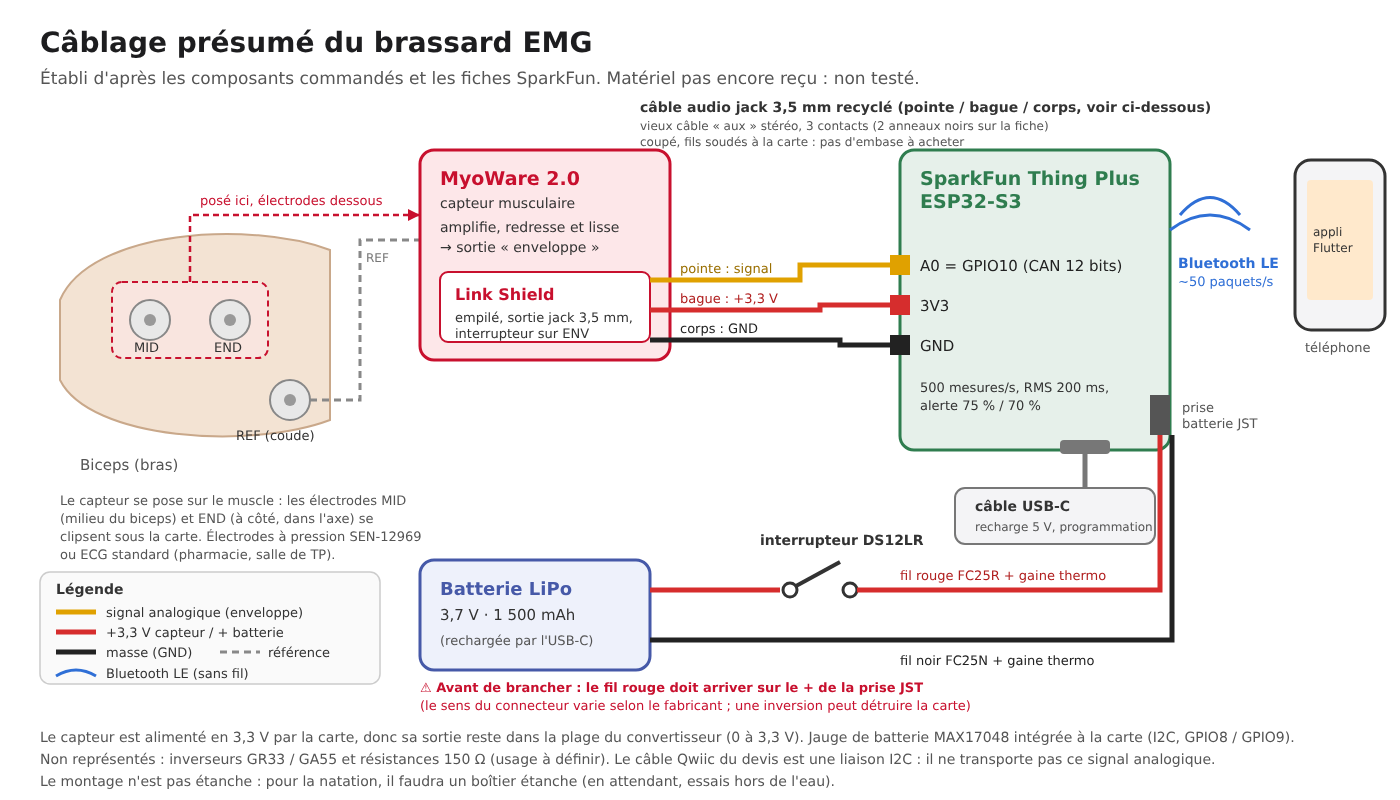
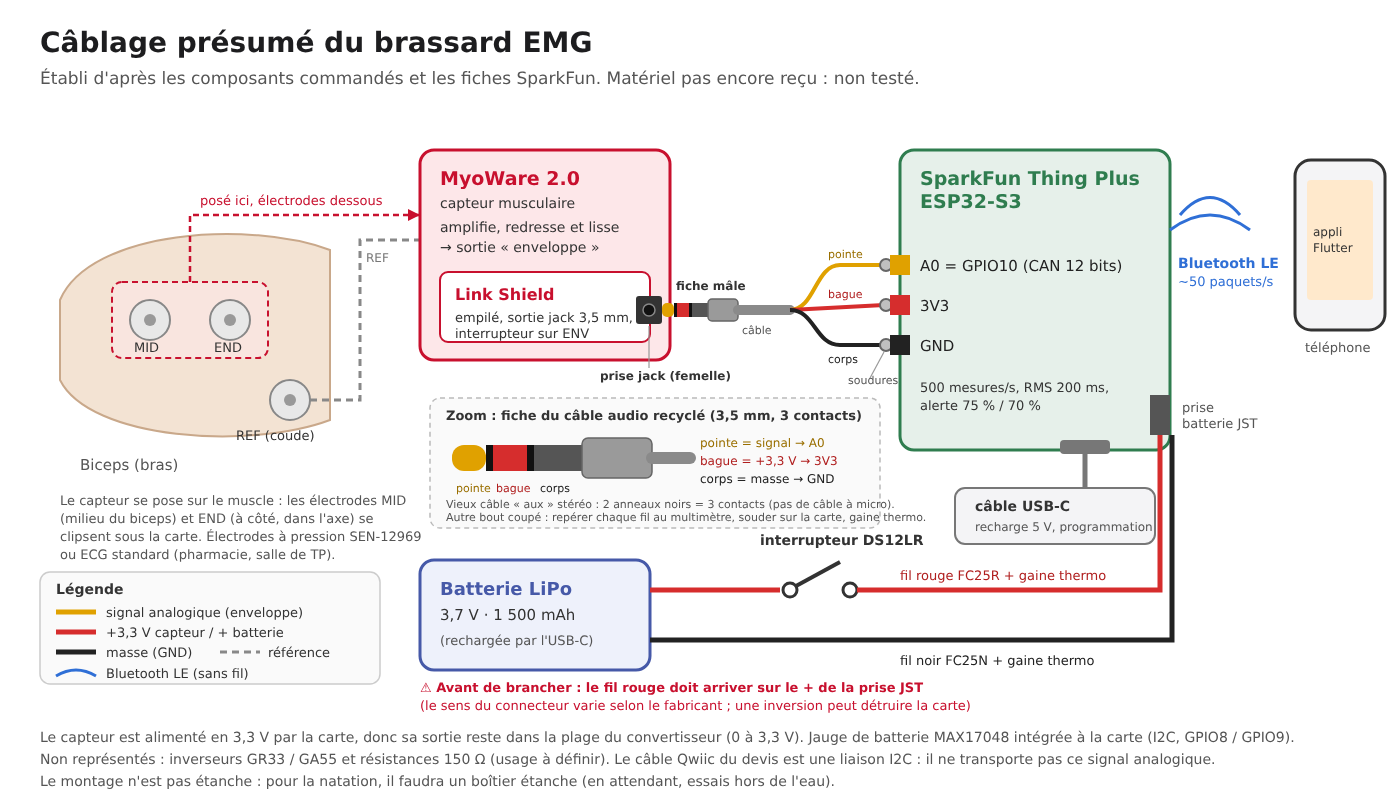
Schéma : câble jack dessiné (prise du Link Shield, fiche mâle, câble, 3 soudures, zoom sur la fiche) ; Gantt affiché dans le README ; hébergement de l'API sur un PC avec XAMPP et ngrok

Changed region(s): [[0.3071, 0.3125, 0.645, 0.6562], [0.4607, 0.125, 0.86, 0.1875], [0.6143, 0.4688, 0.645, 0.5]]

diff --git a/README.md b/README.md
@@ -51,6 +51,18 @@ Le matériel, demandé en juin 2026, a été commandé par l'école en novembre 
 
 Tout le détail (ce qui est fait, ce qui reste, cases à cocher, répartition) : **[`FEUILLE-DE-ROUTE.md`](FEUILLE-DE-ROUTE.md)**.
 
+### Planning (diagramme de Gantt)
+
+Fichier modifiable et détails : [`gestion-projet/`](gestion-projet/README.md). Dates à confirmer : livraison du matériel et soutenance.
+
+**2e année** (septembre 2026 → janvier 2027) :
+
+![Gantt de la 2e année : travail fait sans le matériel, attente de la commande, étapes à la réception, fin du projet](gestion-projet/gantt-annee2.png)
+
+**1re année** : le plan d'origine et ce que chaque tâche est devenue :
+
+![Gantt de la 1re année : plan d'origine (tâches A à I) et statut de chaque tâche](gestion-projet/gantt-annee1.png)
+
 ## Rencontre avec une patiente atteinte de sclérose en plaques
 
 > [!NOTE]
@@ -185,7 +197,19 @@ flutter build apk --release --dart-define=API_BASE_URL=http://192.168.1.20/athle
 ```
 L'APK se trouve ensuite dans `build/app/outputs/flutter-apk/app-release.apk`. Remplacer `192.168.1.20` par l'adresse IP du PC (`ipconfig` sous Windows). Le `http://` est autorisé pour le prototype ; à passer en HTTPS pour un vrai déploiement.
 
-### 5. Tests
+### 5. Héberger l'API sur son PC (XAMPP + ngrok)
+
+Pas besoin de serveur : l'API tourne sur un PC avec XAMPP, et **ngrok** la rend joignable depuis Internet en HTTPS (le téléphone n'a pas besoin d'être sur le même Wi-Fi). L'application envoie déjà l'en-tête qui évite la page d'avertissement de ngrok.
+1. XAMPP : démarrer Apache et MySQL, dépôt dans `htdocs/athletix-data`, base et migrations importées (étapes 1 et 2).
+2. Installer ngrok (site officiel, compte gratuit), puis une seule fois : `ngrok config add-authtoken <jeton du compte>`.
+3. Lancer le tunnel vers Apache. Le compte gratuit donne **un domaine fixe** (tableau de bord ngrok → *Domains*) : avec lui, l'adresse ne change pas à chaque lancement.
+```bash
+ngrok http --url=mon-domaine.ngrok-free.app 80
+```
+4. L'adresse de l'API devient `https://mon-domaine.ngrok-free.app/athletix-data/backend`. La mettre dans la variable du dépôt `API_BASE_URL` (*Settings → Secrets and variables → Actions → Variables*), puis relancer la compilation (*Actions → APK Android → Run workflow*) et réinstaller l'APK.
+5. Le PC doit rester allumé, avec XAMPP et ngrok lancés, pendant que l'application est utilisée.
+
+### 6. Tests
 ```bash
 flutter test                                   # application (68 tests) : Bluetooth, séance, natation, GPS, évolution, exports, envoi différé, démo
 ATHLETIX_TEST=1 bash tests/api/test_api.sh     # API sur une base de TEST (le script la vide) : 77 vérifications
@@ -193,7 +217,7 @@ g++ -std=c++17 -I hardware/firmware-brassard tests/firmware/test_calcul_emg.cpp 
 ```
 Les trois sont relancés par GitHub à chaque envoi ([`.github/workflows/tests.yml`](.github/workflows/tests.yml), badge en haut de page).
 
-### 6. Version web pour GitHub Pages
+### 7. Version web pour GitHub Pages
 ```bash
 bash tools/build_web.sh
 ```
@@ -226,7 +250,7 @@ A connected armband that measures muscle activity (electromyography, EMG) and a 
 
 **Final armband:** MyoWare 2.0 muscle sensor + Link Shield, SparkFun Thing Plus ESP32-S3 (12-bit ADC at 500 Hz, 200 ms RMS, Bluetooth Low Energy), 3.7 V 1500 mAh LiPo battery. The measurement chain was first modelled in Simulink as an **experiment**: see [`hardware/simulation-emg/`](hardware/simulation-emg/README.md). The final model is included: [`AthletixData_EMG_Simulation.slx`](hardware/simulation-emg/AthletixData_EMG_Simulation.slx) (MATLAB/Simulink R2026b or later).
 
-**Project status.** The hardware, requested in June 2026, was ordered by the school in November (expected mid-December at the earliest). Everything that does not depend on the parts is done: the **app is nearly finished** and tested in the browser, the API passes 77 checks on a real database, the final firmware is written and its calculations pass 41 checks on a computer, and GitHub reruns all tests on every push. The leaderboard rule was validated on 12 November 2026. Next: try the app on an Android phone (the APK is built by GitHub), then follow the test protocol when the hardware arrives. Full roadmap (in French): [`FEUILLE-DE-ROUTE.md`](FEUILLE-DE-ROUTE.md).
+**Project status.** The hardware, requested in June 2026, was ordered by the school in November (expected mid-December at the earliest). Everything that does not depend on the parts is done: the **app is nearly finished** and tested in the browser, the API passes 77 checks on a real database, the final firmware is written and its calculations pass 41 checks on a computer, and GitHub reruns all tests on every push. The leaderboard rule was validated on 12 November 2026. Next: try the app on an Android phone (the APK is built by GitHub), then follow the test protocol when the hardware arrives. Full roadmap (in French): [`FEUILLE-DE-ROUTE.md`](FEUILLE-DE-ROUTE.md). Planning (Gantt charts): [`gestion-projet/`](gestion-projet/README.md).
 
 **Meeting with a person living with multiple sclerosis.** During the project, the team talked with a person living with multiple sclerosis, at the suggestion of a retired doctor specialised in the disease, who pushed us towards this need. Her suggestions were not written down at the time; the ideas below were **written afterwards** from what is known about the disease. They are neither her words nor medical advice:
 - **Fatigue** (the most common symptom): track muscle fatigue (median frequency of the raw signal, MyoWare RAW output read at 1 kHz or more) and suggest a break before exhaustion.
@@ -292,9 +316,10 @@ The Bluetooth format, data models and network integration are described (in Fren
 1. **Database**: start MySQL (XAMPP) and import `database.sql`, then the migrations `001` to `004` in `migrations/`, in order. This creates a fictional demo account: `demo@exemple.com` / `demo1234`.
 2. **PHP backend**: place the repository in `htdocs/athletix-data`. Copy `backend/config.example.php` to `backend/config.local.php` (git-ignored), then fill in the MySQL credentials, the SMTP settings (Gmail address and **app password**) and `allowed_origin`.
 3. **Flutter app**: run `flutter pub get`, then `flutter run -d chrome --web-port 5000`. The API URL lives in `lib/config.dart`, or can be passed with `--dart-define=API_BASE_URL=...`.
-4. **Android app** (real armband): open the project in Android Studio and build with `--dart-define=API_BASE_URL=http://<PC IP>/athletix-data/backend`.
-5. **Tests**: `flutter test` (68 tests), `ATHLETIX_TEST=1 bash tests/api/test_api.sh` (77 checks, on a test database only), and the firmware calculation tests in `tests/firmware/` (41 checks). GitHub reruns all three on every push.
-6. **GitHub Pages**: `bash tools/build_web.sh` (builds, copies to `docs/`, adds a version number so browsers never keep an old copy), then enable Pages on `main` / `docs`.
+4. **Hosting the API on a PC**: XAMPP plus an **ngrok** tunnel (`ngrok http --url=<free static domain> 80`), then set the repository variable `API_BASE_URL` to `https://<domain>/athletix-data/backend` and rerun the “APK Android” workflow.
+5. **Android app** (real armband): download the ready-made [athletix-data.apk](https://github.com/Valentin-Auger-Laboratoire/athletix-data/releases/tag/apk) built by GitHub, or open the project in Android Studio and build with `--dart-define=API_BASE_URL=...`.
+6. **Tests**: `flutter test` (68 tests), `ATHLETIX_TEST=1 bash tests/api/test_api.sh` (77 checks, on a test database only), and the firmware calculation tests in `tests/firmware/` (41 checks). GitHub reruns all three on every push.
+7. **GitHub Pages**: `bash tools/build_web.sh` (builds, copies to `docs/`, adds a version number so browsers never keep an old copy), then enable Pages on `main` / `docs`.
 
 ## Personal data (GDPR)
 

diff --git a/FEUILLE-DE-ROUTE.md b/FEUILLE-DE-ROUTE.md
@@ -54,6 +54,7 @@
 ## 1. Reste à faire sans le matériel
 
 - [x] **Règle de score du classement validée** (12 novembre 2026) : 10 points par séance mesurée + minutes × intensité moyenne ÷ 50, sur 30 jours, séances simulées exclues ([`MCD_MLD.md`](architecture/MCD_MLD.md) §5).
+- [ ] **Héberger l'API sur le PC portable** (Valentin) : XAMPP + ngrok avec le domaine fixe gratuit, puis mettre l'adresse dans la variable `API_BASE_URL` du dépôt et relancer la compilation de l'APK (marche à suivre : README, Installation §5).
 - [ ] **Essayer l'application sur un téléphone Android** (Android Studio, voir le README) : connexion à l'API sur XAMPP, GPS, pas, vibration, voix, export PDF et CSV, ceinture cardio si quelqu'un en a une.
 - [ ] **Tester le faux brassard** sur un ESP32 classique ([`hardware/faux-brassard-ble/`](hardware/faux-brassard-ble/README.md)) avec nRF Connect, puis avec l'application.
 - [ ] **Boîtier** : exporter le modèle Fusion 360 en STEP et STL, avec quelques captures, et l'ajouter au dépôt. Pour la natation : prévoir une version **étanche** (joint, passe-câble pour les électrodes) ou la garder pour plus tard.
